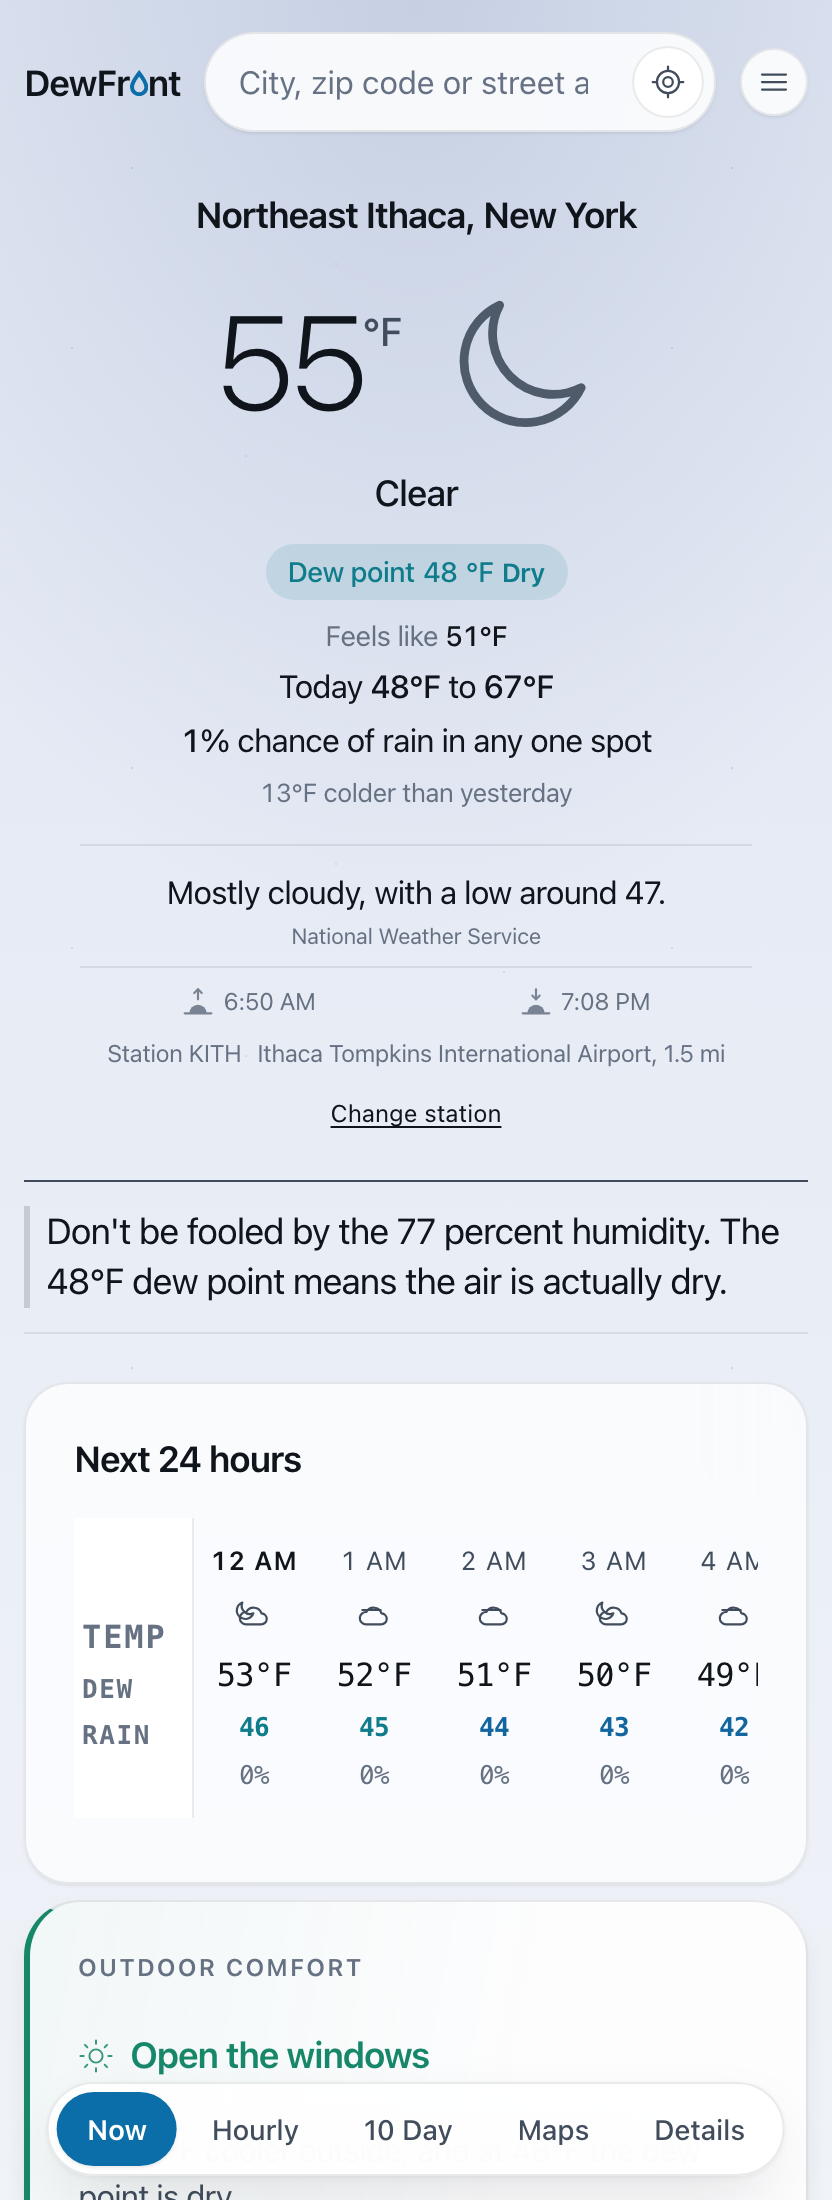
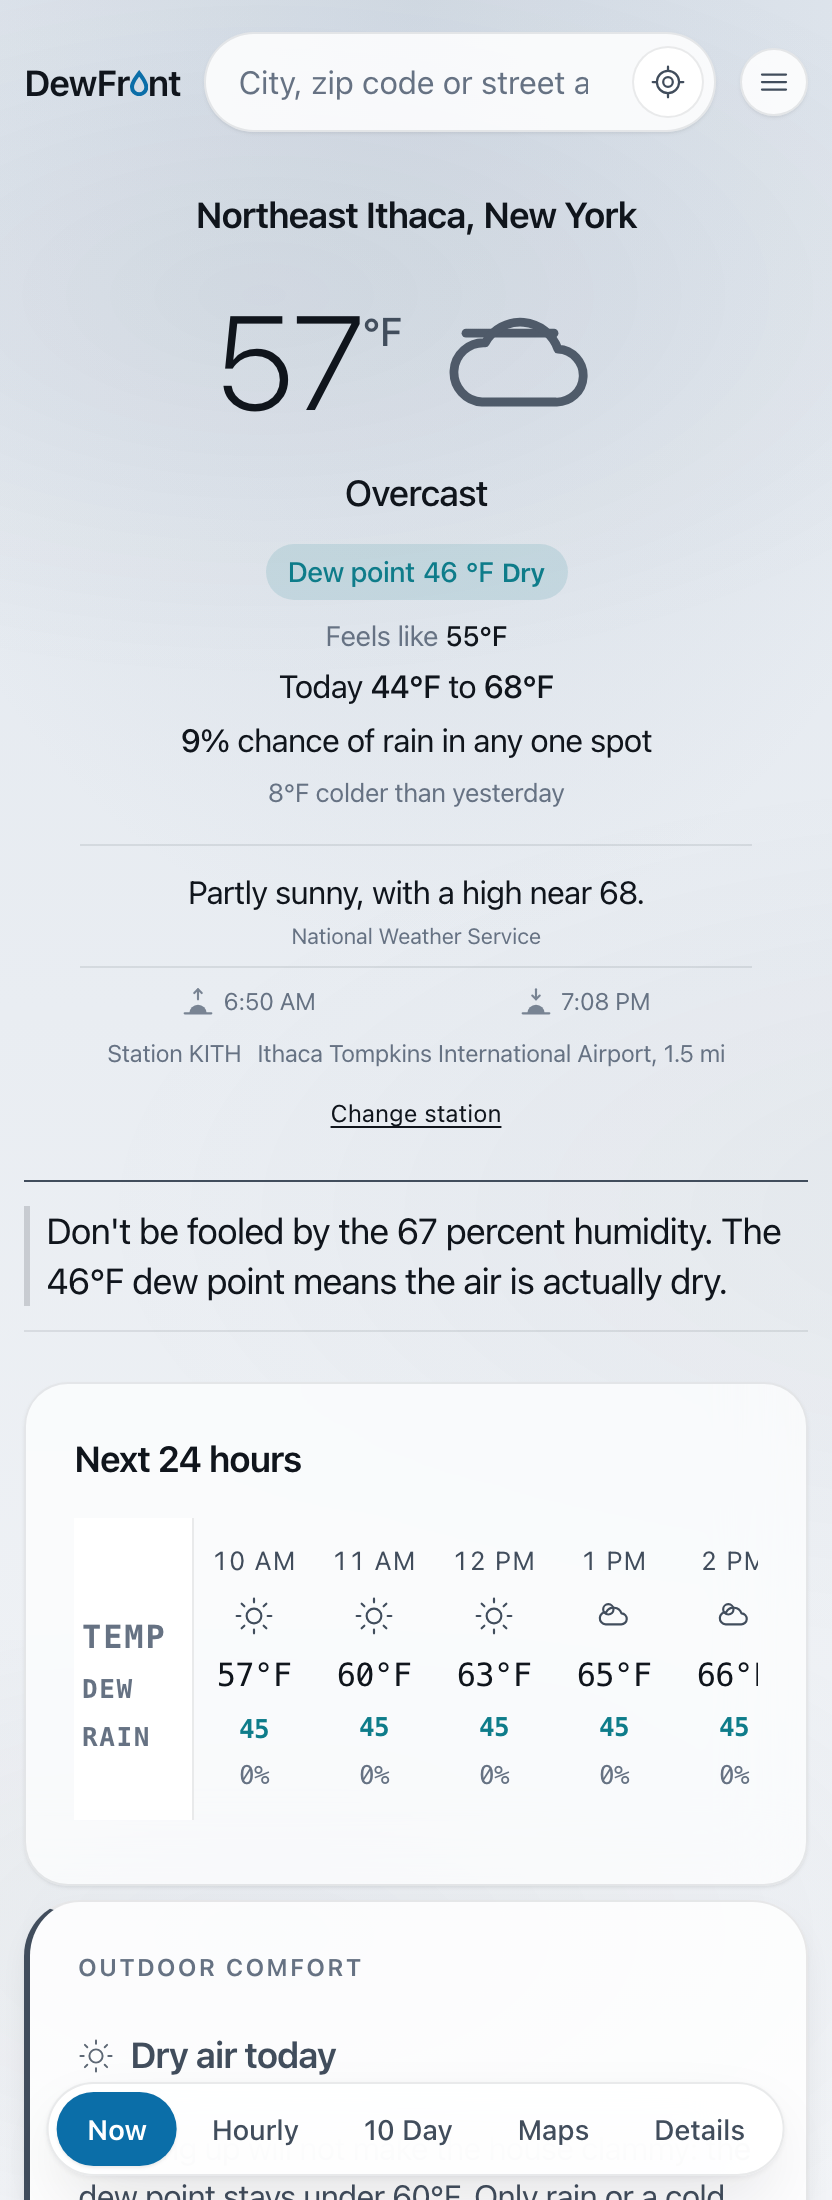
Refresh the case study against eea5127
Measured on 2026-09-19: 2501 unit tests across 115 files, 55 end to
end, 97.55% statement coverage, 209 non test source files.
Screenshots regenerated from https://dewfront.com/ through the app's own verify harness.

diff --git a/README.md b/README.md
@@ -156,13 +156,13 @@ Measured on 2026-09-19 by running the suite against the current tree, not by rec
 
 | Metric | Value |
 |---|---|
-| Unit tests | 2,473 across 114 files |
+| Unit tests | 2,501 across 115 files |
 | End to end tests | 55 Playwright tests, upstreams mocked |
-| Statement coverage | 97.52 percent |
-| Branch coverage | 91.41 percent |
-| Function coverage | 98.3 percent |
-| Line coverage | 98.75 percent |
-| Source under test | roughly 33,000 lines of TypeScript across 208 non test files |
+| Statement coverage | 97.55 percent |
+| Branch coverage | 91.31 percent |
+| Function coverage | 98.32 percent |
+| Line coverage | 98.77 percent |
+| Source under test | roughly 33,000 lines of TypeScript across 209 non test files |
 
 The tests worth pointing at are not the ones that assert a number renders. They are the ones that assert something is **absent**: relative humidity never appears on the windows decision card, the History archive is not fetched until that screen is opened (the test counts requests to prove it), and switching to Celsius leaves no Fahrenheit anywhere on the Now screen.
 

diff --git a/CHANGELOG.md b/CHANGELOG.md
@@ -16,6 +16,8 @@ What changed in DewFront, newest first. Each entry is dated by the weekend its w
 - A night shut by rain or wind now says so, instead of "Keep the AC on tonight".
 - "Give the AC a break" now needs a hot day, today or tomorrow. A 55°F September night no longer gets it.
 - The closing note names what actually closes the window. A cold 5 AM is no longer blamed on humidity.
+- The Windows card now judges the week, not the hour. When nothing in the air will decide anything for 24 hours it collapses to one line ("Dry air all week", "AC season") and keeps only tonight's rain or cold; the humidifier card appears when the whole day is cold, and stops flickering in and out across a shoulder-season afternoon.
+- On a night that ends shut, the card prints the dew point where it closes rather than the night's low. "Holds near 48°F" under a strip climbing to 57°F is gone.
 
 ---
 
